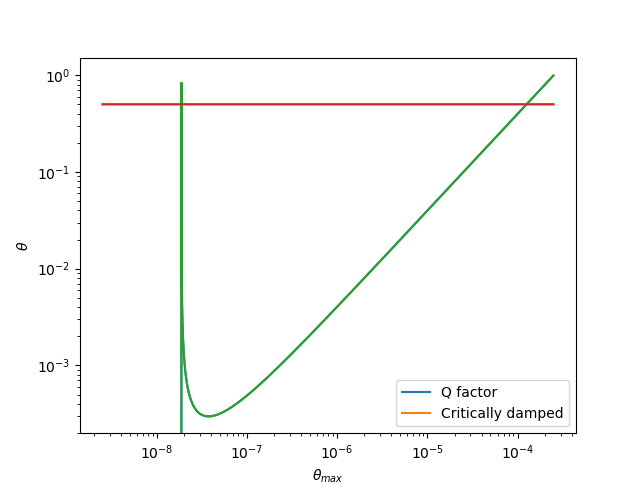
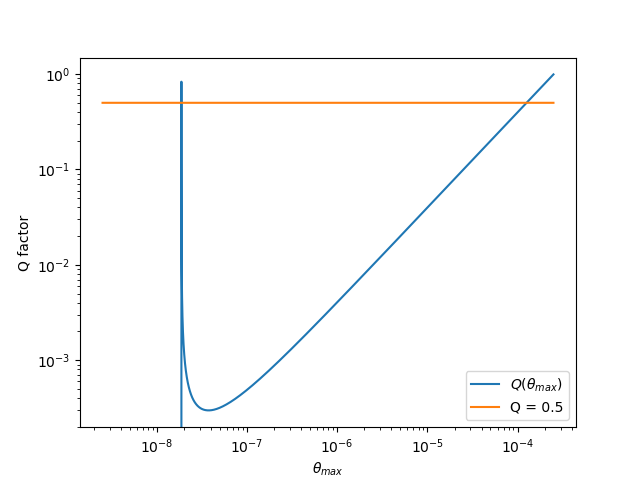
auto

diff --git a/python/Q factor.py b/python/Q factor.py
@@ -28,10 +28,11 @@ plt.plot(theta,ones*0.5)
 plt.yscale('log')
 plt.xscale('log')
 plt.xlabel(r'$\theta_{max}$')
-plt.ylabel(r'$\theta$')
+plt.ylabel('Q factor')
 plt.legend(['Q factor','Critically damped'])
 
 
+plt.savefig('Q factor.png')
         
 
 
